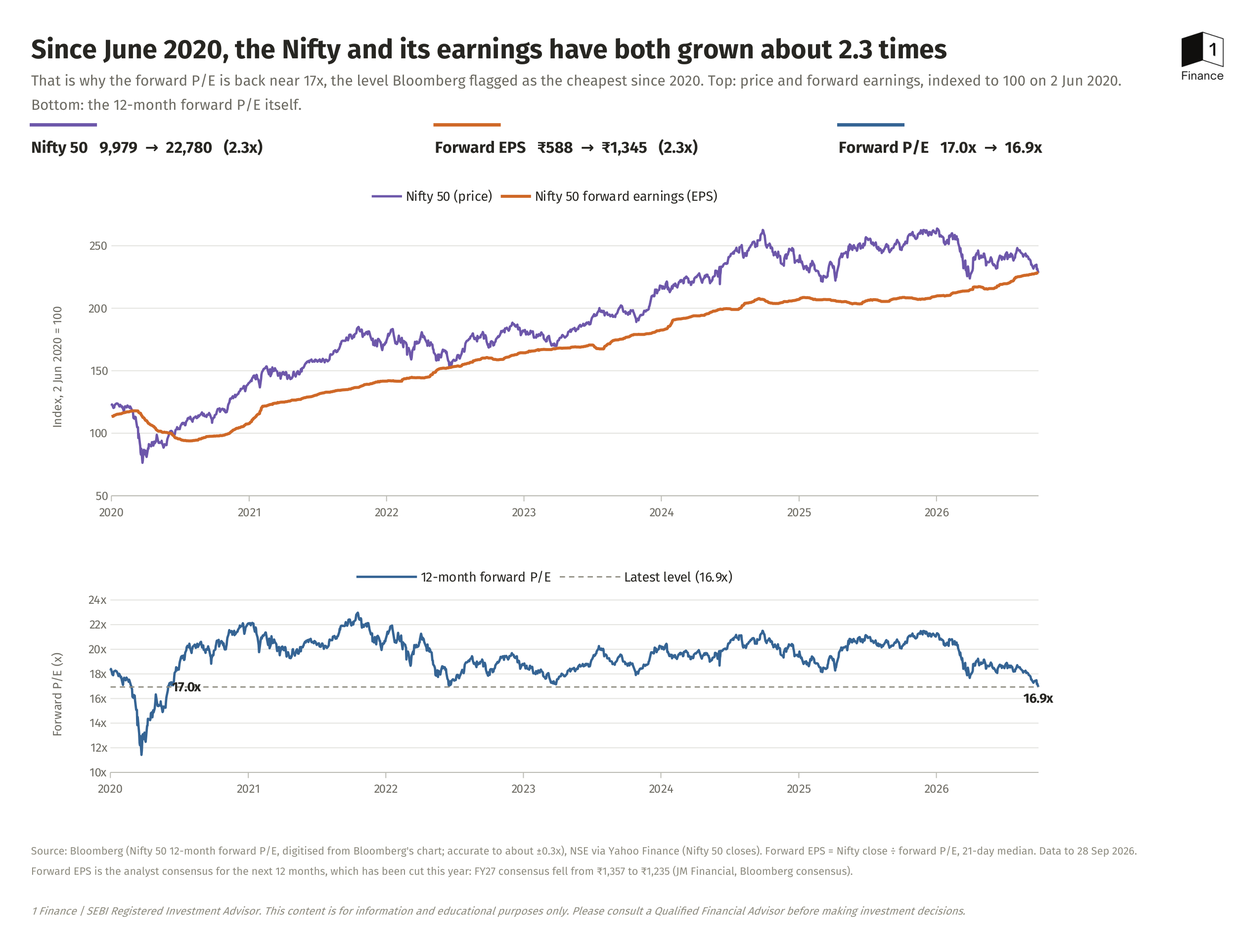
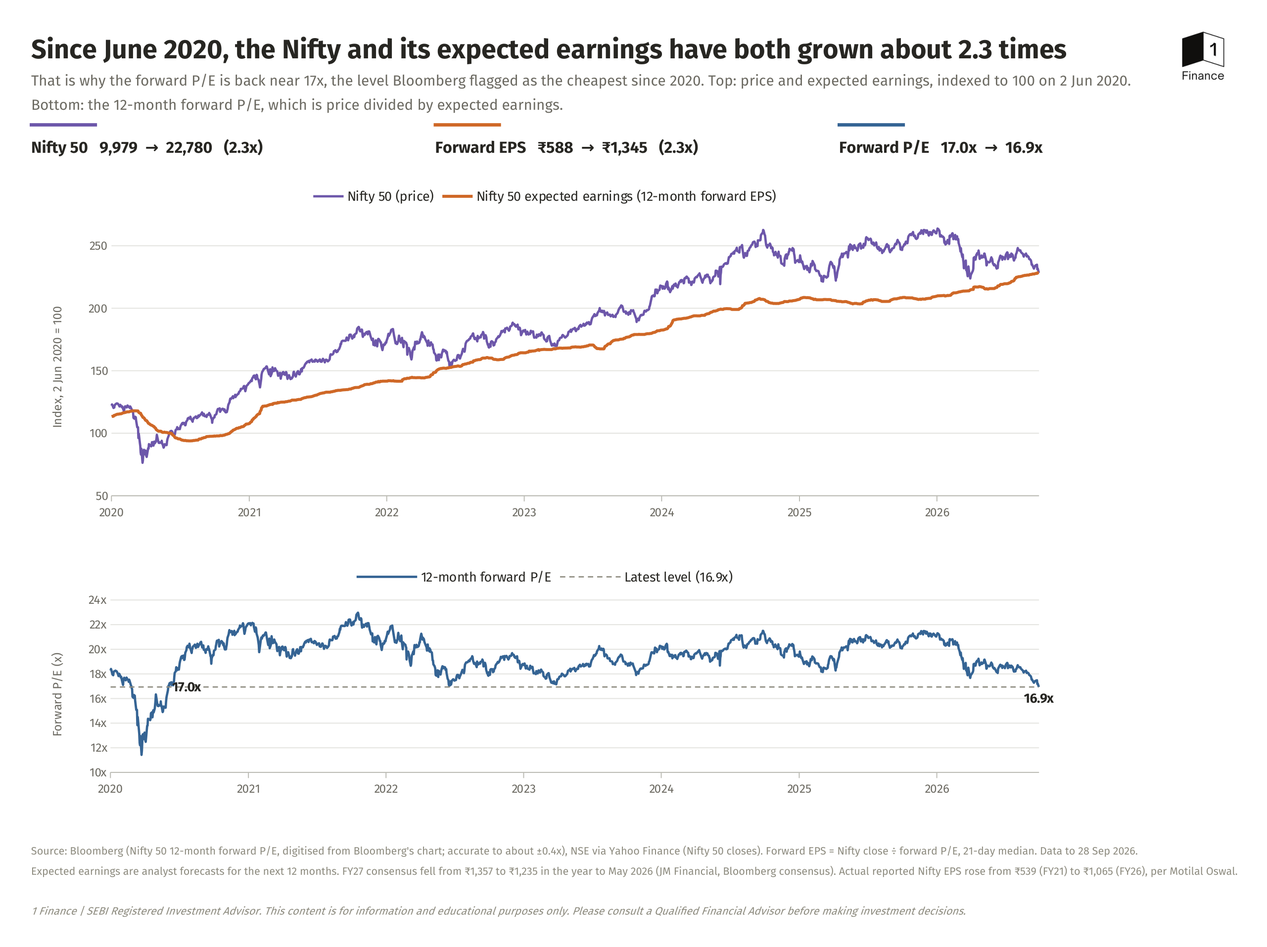
Revise Nifty P/E takeaways and chart after fact and style review
Label the 2.3x growth as expected (forward) earnings and add the actual EPS
cross-check, widen the stated accuracy to about 0.4x and disclose excluded
readings, correct episode, date and source details, and rewrite jargon for a
non-finance reader. Adds consensus FY27 EPS and the FY27/FY28 blend check to
the Validation sheet.

Claude-Session: https://claude.ai/code/session_01N5HxAwkVaTsKQoA79fMcaE

diff --git a/analysis/nifty-pe-earnings/pipeline/build_excel.py b/analysis/nifty-pe-earnings/pipeline/build_excel.py
@@ -147,7 +147,7 @@ ws['A18'].font = Font(name=BODY, bold=True, size=10, color=INK)
 ws['A19'] = 'Latest minus mid-2022 low'; ws['B19'] = '=D9-D12'; ws['B19'].number_format = '+0.00;-0.00'
 ws['A20'] = 'Latest minus March-2023 low'
 ws['B20'] = '=D9-MIN(Data!$H$840:$H$880)'; ws['B20'].number_format = '+0.00;-0.00'
-ws['C19'] = 'Differences this small are inside the digitisation error (about ±0.3x), so treat "cheapest since 2020" as Bloomberg\'s call on its own data.'
+ws['C19'] = 'Differences this small are inside the digitisation error (about ±0.4x), so treat "cheapest since 2020" as Bloomberg\'s call on its own data.'
 ws['C19'].font = Font(name=BODY, size=9, color=INK2)
 ws['A22'] = 'Share of days where the rebuilt P/E sits inside the chart band'
 ws['B22'] = f'=COUNTIF(Data!$L${FIRST}:$L${LAST},"yes")/(COUNTIF(Data!$L${FIRST}:$L${LAST},"yes")+COUNTIF(Data!$L${FIRST}:$L${LAST},"no"))'
@@ -218,6 +218,24 @@ ws.cell(row=rr + 1, column=1, value='FY21 to FY26 actual EPS CAGR').font = Font(
 ws.cell(row=rr + 1, column=2, value=f'=(B{fy26}/B{fy21})^(1/5)-1').number_format = '0.0%'
 ws.cell(row=rr + 2, column=1, value='Forward EPS multiple, base date to latest (from Summary)').font = Font(name=BODY, bold=True, size=10)
 ws.cell(row=rr + 2, column=2, value='=Summary!G8').number_format = '0.00"x"'
+ws.cell(row=rr + 5, column=1, value='C. Consensus FY27 EPS and the 12-month forward blend').font = Font(name=BODY, bold=True, size=12, color=INK)
+cons = [('Consensus FY27 EPS, mid-2025 (₹)', 1357, 'JM Financial Nifty50 Analyser (Bloomberg consensus), via Moneycontrol / 5paisa, 3 Jun 2026'),
+        ('Consensus FY27 EPS, May 2026 (₹)', 1235, 'Same source')]
+for k, (lab, v, src) in enumerate(cons):
+    r = rr + 6 + k
+    ws.cell(row=r, column=1, value=lab)
+    ws.cell(row=r, column=2, value=v).number_format = '#,##0'
+    ws.cell(row=r, column=2).font = Font(name=BODY, size=10, color=BLUE_INPUT)
+    ws.cell(row=r, column=6, value=src)
+ws.cell(row=rr + 8, column=1, value='Cut in consensus FY27 EPS')
+ws.cell(row=rr + 8, column=2, value=f'=B{rr + 7}/B{rr + 6}-1').number_format = '0.0%'
+ws.cell(row=rr + 9, column=1, value='50/50 blend of MOFSL FY27E and FY28E (₹): what a 12-month forward figure looks like in late September')
+ws.cell(row=rr + 9, column=2, value=f'=0.5*B{hdr_row + 7}+0.5*B{hdr_row + 8}').number_format = '#,##0'
+ws.cell(row=rr + 10, column=1, value='Latest implied forward EPS on the Data sheet (₹)')
+ws.cell(row=rr + 10, column=2, value='=Summary!E9').number_format = '#,##0'
+ws.cell(row=rr + 11, column=1, value=('Actual EPS roughly doubled FY21-FY26; the rest of the 2.3x rise in forward EPS is forecast, since the '
+                                      'late-September 12-month window is about half FY27 and half FY28.'))
+ws.cell(row=rr + 11, column=1).font = Font(name=BODY, size=9, italic=True, color=INK2)
 ws.cell(row=rr + 3, column=1, value=('FY20 actual EPS is not cleanly reported: MOFSL\'s FY21 figure implies about ₹472, other houses '
                                      'put FY20 near ₹400, because constituents and consolidation differ. So the comparison starts at FY21.'))
 ws.cell(row=rr + 3, column=1).font = Font(name=BODY, size=9, italic=True, color=INK2)
@@ -238,7 +256,7 @@ lines = [
     ('   For each trading day the top and bottom edge of the orange stroke are read. Half the stroke width (4.25 px, about 0.03x) is taken off each edge, which leaves the range the true value must lie in.', False),
     ('3. Implied forward EPS = Nifty close / digitised forward P/E, then a centred 21-trading-day median (forward EPS moves slowly; the median removes reading noise).', False),
     ('4. Rebuilt forward P/E = Nifty close / smoothed forward EPS. This puts back the real day-to-day moves from actual prices. It sits inside the chart band on about 86% of days; when outside, the median miss is 0.03x and the worst is 0.26x.', False),
-    ('5. Against seven readings published with a Bloomberg attribution (Validation sheet), the rebuilt series differs by -0.36x to +0.34x. Treat every P/E here as accurate to about ±0.3x.', False),
+    ('5. Against seven readings published with a Bloomberg attribution (Validation sheet), the rebuilt series differs by -0.36x to +0.34x. Treat every P/E here as accurate to about ±0.4x.', False),
     ('6. The last Bloomberg point is 28 Sep 2026 (the final downward tick of the line, the day Nifty fell 1.6%). Nothing is extrapolated past the chart.', False),
     ('7. Indices: price and forward EPS are rebased to 100 on the base date on the Summary sheet (2 Jun 2020). Change that date and the chart and table update.', False),
     ('', False),
@@ -272,12 +290,12 @@ heights = {1: 10, 2: 30, 3: 18, 4: 18, 5: 8, 6: 34, 7: 6}
 for r, hgt in heights.items():
     ws.row_dimensions[r].height = hgt
 
-ws['B2'] = 'Since June 2020, the Nifty and its earnings have both grown about 2.3 times'
+ws['B2'] = 'Since June 2020, the Nifty and its expected earnings have both grown about 2.3 times'
 ws['B2'].font = Font(name=BRAND, size=20, bold=True, color=INK)
 ws['B3'] = ('That is why the forward P/E is back near 17x, the level Bloomberg flagged as the cheapest since 2020. '
-            'Top: price and forward earnings, indexed to 100 on 2 Jun 2020.')
+            'Top: price and expected earnings, indexed to 100 on 2 Jun 2020.')
 ws['B3'].font = Font(name=BRAND, size=11, color=INK2)
-ws['B4'] = 'Bottom: the 12-month forward P/E itself.'
+ws['B4'] = 'Bottom: the 12-month forward P/E, which is price divided by expected earnings.'
 ws['B4'].font = Font(name=BRAND, size=11, color=INK2)
 
 # key-number strip (formulas)
@@ -349,7 +367,7 @@ top = LineChart()
 top.y_axis.crossAx = 500
 top.x_axis = DateAxis(crossAx=100)
 add_line(top, 9, C_PRICE, 1.75, 'Nifty 50 (price)')
-add_line(top, 10, C_EPS, 2.25, 'Nifty 50 forward earnings (EPS)')
+add_line(top, 10, C_EPS, 2.25, 'Nifty 50 expected earnings (12-month forward EPS)')
 top.set_categories(dates)
 style_axes(top, 50, 275, 50, '0')
 top.y_axis.title = 'Index, 2 Jun 2020 = 100'
@@ -380,10 +398,10 @@ ws.add_chart(top, 'B8')
 ws.add_chart(bot, 'B27')
 
 foot = [
-    (41, ('Source: Bloomberg (Nifty 50 12-month forward P/E, digitised from Bloomberg\'s chart; accurate to about ±0.3x), '
+    (41, ('Source: Bloomberg (Nifty 50 12-month forward P/E, digitised from Bloomberg\'s chart; accurate to about ±0.4x), '
           'NSE via Yahoo Finance (Nifty 50 closes). Forward EPS = Nifty close ÷ forward P/E, 21-day median. Data to 28 Sep 2026.'), 8, INK3, False),
-    (42, ('Forward EPS is the analyst consensus for the next 12 months, which has been cut this year: FY27 consensus fell from ₹1,357 to ₹1,235 '
-          '(JM Financial, Bloomberg consensus).'), 8, INK3, False),
+    (42, ('Expected earnings are analyst forecasts for the next 12 months. FY27 consensus fell from ₹1,357 to ₹1,235 in the year to May 2026 '
+          '(JM Financial, Bloomberg consensus). Actual reported Nifty EPS rose from ₹539 (FY21) to ₹1,065 (FY26), per Motilal Oswal.'), 8, INK3, False),
     (44, '1 Finance | SEBI Registered Investment Advisor. This content is for information and educational purposes only. '
          'Please consult a Qualified Financial Advisor before making investment decisions.', 8, INK3, True),
 ]

diff --git a/analysis/nifty-pe-earnings/takeaways.md b/analysis/nifty-pe-earnings/takeaways.md
@@ -1,51 +1,63 @@
 # Nifty 50 price, forward P/E and earnings since 2020: takeaways
 
-Data to 28 September 2026. Companion files: `nifty_pe_price_earnings.xlsx` (data, formulas, native Excel charts) and `nifty_pe_price_earnings.png` (the chart).
+Data to 28 September 2026. Companion files: `nifty_pe_price_earnings.xlsx` (data, formulas and native Excel charts) and `nifty_pe_price_earnings.png` (the chart).
 
 ## The one thing to remember
 
-In early June 2020, the Nifty 50 traded at about 17 times the earnings analysts expected over the next twelve months. On 28 September 2026, it traded at about 17 times again. In between, the index went from 9,979 to 22,780, which is 2.3 times, and those expected earnings went from about ₹588 to about ₹1,345 per index unit, which is also 2.3 times. The whole rise in price since June 2020 is matched by the rise in expected profit. Investors today are paying the same price for each rupee of earnings that they paid in June 2020, a few months after the COVID crash.
+A P/E ratio tells you how many rupees investors pay for each rupee of profit. The version in Bloomberg's chart, the forward P/E, divides the Nifty's level by the profit analysts expect its companies to earn over the next twelve months.
+
+At the low point circled on Bloomberg's chart, in early June 2020, the Nifty 50 traded at about 17 times those expected earnings. On 28 September 2026 it traded at about 17 times again. In between, the index went from 9,979 to 22,780, which is 2.3 times, and the expected earnings behind each unit of the index went from about ₹588 to about ₹1,345, also 2.3 times. (Think of the Nifty as one share priced at 9,979 and later at 22,780; the rupee figures are the profit expected on that one share.) The whole rise in price since then has been matched by the rise in expected profit, so investors today pay the same amount for each rupee of expected earnings as they did a few months after the COVID crash.
 
 ## Takeaways
 
-**1. A P/E ratio has two moving parts, and "cheap" only describes one of them.**
-Price equals earnings multiplied by the P/E. When Bloomberg says Indian stocks are the cheapest since 2020, it means the multiple is low. It says nothing about the price being low. The Nifty is more than twice its June 2020 level and is as cheap as it was then, because earnings grew just as fast as the price did.
+**1. "Cheap" describes the P/E, and the price can be high at the same time.**
+Price equals expected earnings multiplied by the P/E. When Bloomberg says Indian stocks are the cheapest since 2020, it means the P/E is low: investors are paying less for each rupee of expected profit than at any time since 2020. The Nifty itself is more than twice its June 2020 level, and it is as cheap as it was then because expected earnings grew as fast as the price did.
 
-**2. This year's fall came from the multiple, while expected earnings kept rising.**
-From its closing high of 26,328.55 on 2 January 2026 to 22,780.25 on 28 September, the Nifty fell 13.5%. Over the same months, forward earnings rose about 9%. For both to be true, the forward P/E had to drop from about 21.3x to 16.9x, a 20% cut in what investors will pay per rupee of profit. The selling behind that shows up in the flow data. Foreign portfolio investors have taken out a net ₹2.45 lakh crore from Indian equities in 2026 so far, more than the ₹1.66 lakh crore they withdrew in all of 2025, while domestic institutions bought a net ₹5.8 lakh crore up to mid-September.
+**2. This year's fall came from investors paying less for each rupee of profit, while expected earnings kept rising.**
+From its closing high of 26,328.55 on 2 January 2026 to 22,780.25 on 28 September, the Nifty fell 13.5%. Over the same months, the twelve-month earnings forecast rose about 9%. For both to be true, the forward P/E had to fall from about 21.3 times earnings (written 21.3x) to 16.9x, a 20% drop in what investors will pay for each rupee of profit.
 
-**3. Each time price ran well ahead of earnings, it later came back toward them.**
-In the top panel, the purple price line pulled away from the orange earnings line three times: into October 2021 (forward P/E about 23x), into September 2024 (about 21.5x) and into late 2025 (about 21.5x). Each time, the gap later closed, mainly because prices fell back. In 2022 and again in 2026, rising earnings helped close it too; in early 2025, earnings were flat and the price did all the work. Today the two lines sit together at about the same point they did in June 2020. Since mid-2020, the Nifty's forward P/E has moved between roughly 17x and 23x, and it is now at the bottom of that range.
+Foreign selling is one visible source of pressure. Foreign portfolio investors had taken out a net ₹2.45 lakh crore from Indian shares in 2026 by mid-September, more than the ₹1.66 lakh crore they withdrew in all of 2025. Domestic institutions such as mutual funds and insurers bought a net ₹5.8 lakh crore over roughly the same period. Coverage of the late-September slide also points to Brent crude near $108 a barrel, US 10-year bond yields near 5.2%, and a heavy supply of shares from block and bulk deals (₹3.63 lakh crore by late August, according to Prime Database).
 
-**4. Earnings growth has been lumpy, and the stall shows up in the chart.**
-Motilal Oswal's count of actual Nifty earnings per share went from ₹539 in FY21 to ₹1,065 in FY26, roughly double in five years. Most of that came between FY22 and FY24. FY25 grew about 1% and FY26 about 5%. You can see the stall in the chart: forward earnings barely moved between September 2024 and December 2025 (up about 1%), and the Nifty went nowhere over the same stretch (26,216 to 26,130). When earnings stop growing, a market that is already expensive has little to push it higher.
+**3. Each time price ran well ahead of earnings, the gap later shrank.**
+In the top panel, the purple price line pulled away from the orange earnings line three times: into October 2021 (forward P/E about 23x), into September 2024 (about 21.5x) and into November 2025 (about 21.5x). The 2021 gap closed by mid-2022, as prices fell 17% while expected earnings rose 12%. The 2024 gap only narrowed: prices fell while earnings stood still, taking the P/E down to about 18x by March 2025, and then a rally pushed it back to 21.5x. The 2026 fall closed that gap. Today the two lines are as close together as they were in June 2020, even though both are far higher. Since mid-2020 the forward P/E has moved between roughly 17x and 23x, and it now sits at the bottom of that range.
 
-**5. "Cheap" rests on forecasts, and those forecasts are being cut.**
-Forward earnings are analysts' estimates, and the consensus estimate for FY27 Nifty EPS has fallen from ₹1,357 to ₹1,235 over the past year, a cut of about 9%. Forward earnings in the chart still rose during 2026, mostly because a twelve-month forward estimate slides along the calendar: as 2026 went on, more of the window fell in FY28, where the estimates are higher. The sensitivity matters here. If estimates are cut by another 10% and the Nifty does not move, the forward P/E goes from 16.9x to about 18.8x, and the market stops looking cheap without a single rupee of price change.
+**4. Actual earnings roughly doubled, and the growth came in bursts.**
+Motilal Oswal's figure for the profit actually earned per unit of the Nifty went from ₹539 in FY21 (the year to March 2021) to ₹1,065 in FY26, roughly double in five years. Most of that came in FY22, FY23 and FY24, with growth of about 37%, 9% and 25%. After that, earnings grew only about 1% in FY25 and about 5% in FY26. The stall shows in the chart: expected earnings barely moved between September 2024 and December 2025 (up about 1%), and the Nifty went nowhere over the same stretch (26,216 to 26,130). With the P/E already near the top of its range, at about 21.5x in September 2024, flat earnings left the market with little to push it higher.
 
-**6. "Cheapest since 2020" is true, but only by a whisker.**
-On the Bloomberg series, today's 16.9x sits within 0.1x to 0.2x of the lows in June 2022 (about 17.0x) and March 2023 (about 17.2x). That gap is inside the error of reading a chart, so a fairer description is that the Nifty is back at the bottom of the range it has held since mid-2020. For scale, the COVID panic took the forward P/E to about 11.5x on 23 March 2020, so the bottom of the recent range gives no guarantee about how low the market can go.
+**5. "Cheap" rests on forecasts, and those forecasts have been cut.**
+Expected earnings are analysts' forecasts. The average forecast for Nifty profit per unit in FY27 fell from ₹1,357 to ₹1,235 in the year to May 2026, a cut of about 9%, and JM Financial puts the cut at 9.3% over the year to August 2026. Forecasts steadied in August after strong June-quarter results, when Nifty company profits rose 18% on the year.
+
+Why did the chart's expected earnings still rise in 2026? Our reading is that it is mostly a calendar effect. The chart always looks twelve months ahead, so as 2026 went on, the lower FY26 profits dropped out and more of FY28, where forecasts are higher, came in. Using Motilal Oswal's forecasts of ₹1,232 for FY27 and ₹1,425 for FY28, a half-and-half mix gives about ₹1,329, close to the ₹1,345 in the chart.
+
+This matters because small changes in forecasts move the P/E a lot. If forecasts are cut by another 10% while the Nifty stays at 22,780, the forward P/E rises from 16.9x to about 18.8x, and the market stops looking cheap without any change in price.
+
+**6. "Cheapest since 2020" is Bloomberg's call, and it holds by a whisker.**
+On our reading of Bloomberg's chart, today's 16.9x is only 0.1x to 0.3x below the lows of June 2022 (about 17.0x) and March 2023 (about 17.2x). That gap is smaller than the margin of error from reading values off a chart. Motilal Oswal's own series shows the same picture: its September 2026 reading of 17.6x matches its end-June 2022 reading of 17.6x. The fair description is that the Nifty is back at the bottom of the range it has held since mid-2020. For scale, the COVID panic took the forward P/E to about 11.5x in late March 2020, the lowest point on Bloomberg's line, so the bottom of the recent range is no guarantee of how low it can go.
 
 ## What this means for a conversation with a client
 
-For a client unsettled by this year's 13% fall, the useful fact is that the profits Nifty companies are expected to earn are higher than they were in January. The fall came from the price investors are willing to pay for those profits. That price has been lower before (March 2020), and the profit forecasts themselves can still be cut, so a low P/E is a statement about value today and gives no signal about timing.
+For a client unsettled by this year's 13% fall, two facts help. First, the profit analysts expect Nifty companies to make over the next twelve months is higher than it was in January, though mostly because that twelve-month view now reaches further into FY28; forecasts for FY27 itself have been trimmed. Second, the fall came from investors paying less for each rupee of those profits. A low P/E tells the client the market is priced at the low end of its recent range against today's forecasts. Whether prices fall further depends on what happens to those forecasts and on how much investors are willing to pay, and they have paid far less before: about 11.5 times earnings in March 2020.
 
 ## How much to trust these numbers
 
-- The forward P/E is Bloomberg's series, read off the Bloomberg chart image because Bloomberg does not publish it openly. The reading was checked against seven forward P/E figures that news reports attributed to Bloomberg, and it agreed within 0.4x every time (average gap 0.23x). Treat every P/E here as accurate to about ±0.3x.
-- Forward P/E numbers differ by provider. Motilal Oswal, for example, put the Nifty at 17.6x in September 2026. Compare levels within one series only.
-- Forward earnings in the chart are implied: Nifty close divided by forward P/E, smoothed over a month. They move in line with Motilal Oswal's actual reported earnings (roughly 2x from FY21 to FY26), which is the independent check that the growth is real.
-- The Nifty here is the price index, without dividends.
+- The forward P/E is Bloomberg's series, read off the Bloomberg chart image because Bloomberg does not publish it openly. The rebuilt series was checked against seven forward P/E figures that news reports attributed to Bloomberg and agreed within 0.4x each time (average gap 0.23x). Two other Bloomberg-attributed figures are far off, Mint's 25.5x for September 2020 (the chart shows about 20x) and a secondary report of 22.8x for September 2025 (the chart shows about 20x), and probably come from a different Bloomberg measure. Treat every P/E here as accurate to about ±0.4x.
+- The June 2020 comparison uses a brief low. The P/E was near 17x for only a few weeks; by early July 2020 it was back near 20x, in line with what Business Standard and Nomura reported at the time. No independent report from early June 2020 confirms the 17x level. The multiples also depend on the start date: measured from 30 June 2020, the Nifty is up 2.2x and expected earnings 2.4x.
+- Expected earnings in the chart are worked out from the other two numbers: the Nifty's closing level divided by the forward P/E, averaged over a month to remove day-to-day noise. Actual reported earnings roughly doubled from FY21 to FY26 (₹539 to ₹1,065, per Motilal Oswal). The rest of the 2.3x rise is still a forecast: today's ₹1,345 is close to a half-and-half mix of the FY27 and FY28 estimates, so it holds only if those estimates hold.
+- P/E levels differ by provider because each uses its own forecasts. Motilal Oswal, for example, puts the Nifty at 17.6x in September 2026. Compare P/E levels only within one provider's numbers.
+- The Nifty figures here leave out dividends, so they understate what an investor actually earned.
 
 ## Sources
 
 - Bloomberg chart shared with this request: "Indian Stocks Cheapest Since 2020 by Forward P/E", Nifty 50 12-month forward P/E ratio.
 - Nifty 50 daily closes: Yahoo Finance, NIFTY 50 (^NSEI), NSE data. https://finance.yahoo.com/quote/%5ENSEI/history/
-- Nifty close of 22,780.25 on 28 September 2026: Business Standard (Capital Market News), CNBC TV18.
+- Nifty close of 22,780.25 on 28 September 2026: Business Standard (Capital Market News, 29 September 2026) and CNBC TV18.
 - All-time closing high of 26,328.55 on 2 January 2026: The Indian Express.
-- Actual Nifty EPS FY21 to FY26 and FY27/FY28 estimates: Motilal Oswal Financial Services strategy and earnings reviews, as reported by Mint (FY21), Zee Business/PTI (FY22), BQ Prime (FY23), Motilal Oswal (FY24, FY25) and ET Now/The Adviser Times (FY26).
-- FY27 consensus EPS cut from ₹1,357 to ₹1,235: JM Financial Nifty50 Analyser using Bloomberg consensus, reported by Moneycontrol and 5paisa (May to June 2026).
-- FPI net outflow of ₹2,45,136 crore in calendar 2026 to date: depository data reported by Business Today (28 September 2026); ₹1.66 lakh crore for all of 2025: PTI via The Hindu BusinessLine (18 September 2026).
-- DII net buying of ₹5,82,012 crore in calendar 2026 to 15 September: depository data compiled by Mata Securities.
-- Bloomberg-attributed forward P/E readings used for validation: Financial Express (6 March 2020; May and June 2022), Moneycontrol (4 September 2024), Paisa Journal (26 September 2024), ThePrint republishing Bloomberg (12 September 2026).
-- Motilal Oswal forward P/E of 17.6x (September 2026): ET Now, citing Motilal Oswal's India Strategy.
+- Actual Nifty EPS FY21 to FY26: Motilal Oswal Financial Services, as reported by Mint (FY21), Zee Business/PTI (FY22, from the interim 4QFY22 review; no final print found), BQ Prime (FY23), Motilal Oswal (FY24, FY25) and ET Now/The Adviser Times (FY26).
+- FY27E ₹1,232, FY28E ₹1,425 and 18% June-quarter profit growth: Motilal Oswal, India Strategy: Earnings review 1QFY27 (16 August 2026).
+- FY27 consensus cut from ₹1,357 to ₹1,235: JM Financial Nifty50 Analyser using Bloomberg consensus, reported by Moneycontrol and 5paisa (3 June 2026). 9.3% cut over the year to August 2026: JM Financial, reported by 5paisa (3 September 2026).
+- FPI net outflow of ₹2.45 lakh crore in 2026 and ₹1.66 lakh crore in 2025: PTI via The Hindu BusinessLine (20 September 2026, data to 18 September); also reported by Business Today (29 September 2026).
+- DII net buying of ₹5,82,012 crore in 2026 to 15 September: Mata Securities, fortnightly market review.
+- Brent crude and US 10-year yield in late September: The Times of India (28 September 2026). Block and bulk deal supply of ₹3.63 lakh crore: Prime Database, reported by CNBC TV18 (26 August 2026).
+- Bloomberg-attributed forward P/E readings used for validation: Financial Express (6 March 2020; May and June 2022), Moneycontrol (4 September 2024), Paisa Journal (26 September 2024), ThePrint republishing Bloomberg (12 September 2026). Readings left out: Mint (11 September 2020, 25.5x) and a secondary summary of Bloomberg data (about 1 September 2025, 22.8x).
+- Forward P/E near 20x in early July 2020: Business Standard (7 July 2020), including Nomura's 19.8x.
+- Motilal Oswal forward P/E of 17.6x in September 2026: ET Now, citing Motilal Oswal's India Strategy. End-June 2022 reading of 17.6x: The Economic Times (30 June 2022), citing Motilal Oswal.

diff --git a/analysis/nifty-pe-earnings/pipeline/README.md b/analysis/nifty-pe-earnings/pipeline/README.md
@@ -3,7 +3,7 @@
 1. `data/nifty50_daily_close_2019-10_to_2026-09-28.csv`: Nifty 50 (^NSEI) daily closes from Yahoo Finance history pages. Each year was transcribed twice by independent agents; `reconcile.py` diffed the two copies (all 1,728 rows matched) and every month-end close was checked against Yahoo's monthly table.
 2. `digitize.py`: calibrates the Bloomberg chart image ("Indian Stocks Cheapest Since 2020 by Forward P/E"). Gridlines 12 to 24 fix the y scale (largest residual 0.003x) and year ticks fix the x scale (largest residual 0.24 days). The image itself is not stored here because it is Bloomberg's content; the scripts expect it at the path set in `IMG`.
 3. `build_series.py`: reads the top and bottom edge of the orange line for every trading day and turns them into a band the true value must lie in (edge minus half the 8.5 px stroke width). It picks the date alignment (1 day) that puts the most rebuilt values inside the band. The output is `data/bloomberg_fwd_pe_digitised.csv`; blank or infinite bounds mark edges hidden by the red annotations.
-4. `build_excel.py`: writes the workbook. Implied EPS, the 21-day median EPS, the rebuilt P/E, the indices and every summary figure are Excel formulas, recalculated with LibreOffice (12,075 formulas, 0 errors).
+4. `build_excel.py`: writes the workbook. Implied EPS, the 21-day median EPS, the rebuilt P/E, the indices and every summary figure are Excel formulas, recalculated with LibreOffice (12,078 formulas, 0 errors).
 5. `render.py`: exports the Chart sheet to PDF with LibreOffice and rasterises it to the PNG.
 
-Accuracy: the rebuilt P/E sits inside the chart band on 86% of days. Against seven forward P/E figures that news reports attributed to Bloomberg, the gap is -0.36x to +0.34x. Treat every P/E as accurate to about ±0.3x.
+Accuracy: the rebuilt P/E sits inside the chart band on 86% of days. Against seven forward P/E figures that news reports attributed to Bloomberg, the gap is -0.36x to +0.34x (two other Bloomberg-attributed readings, far off, look like a different Bloomberg measure and are listed in the Validation sheet). Treat every P/E as accurate to about ±0.4x.
